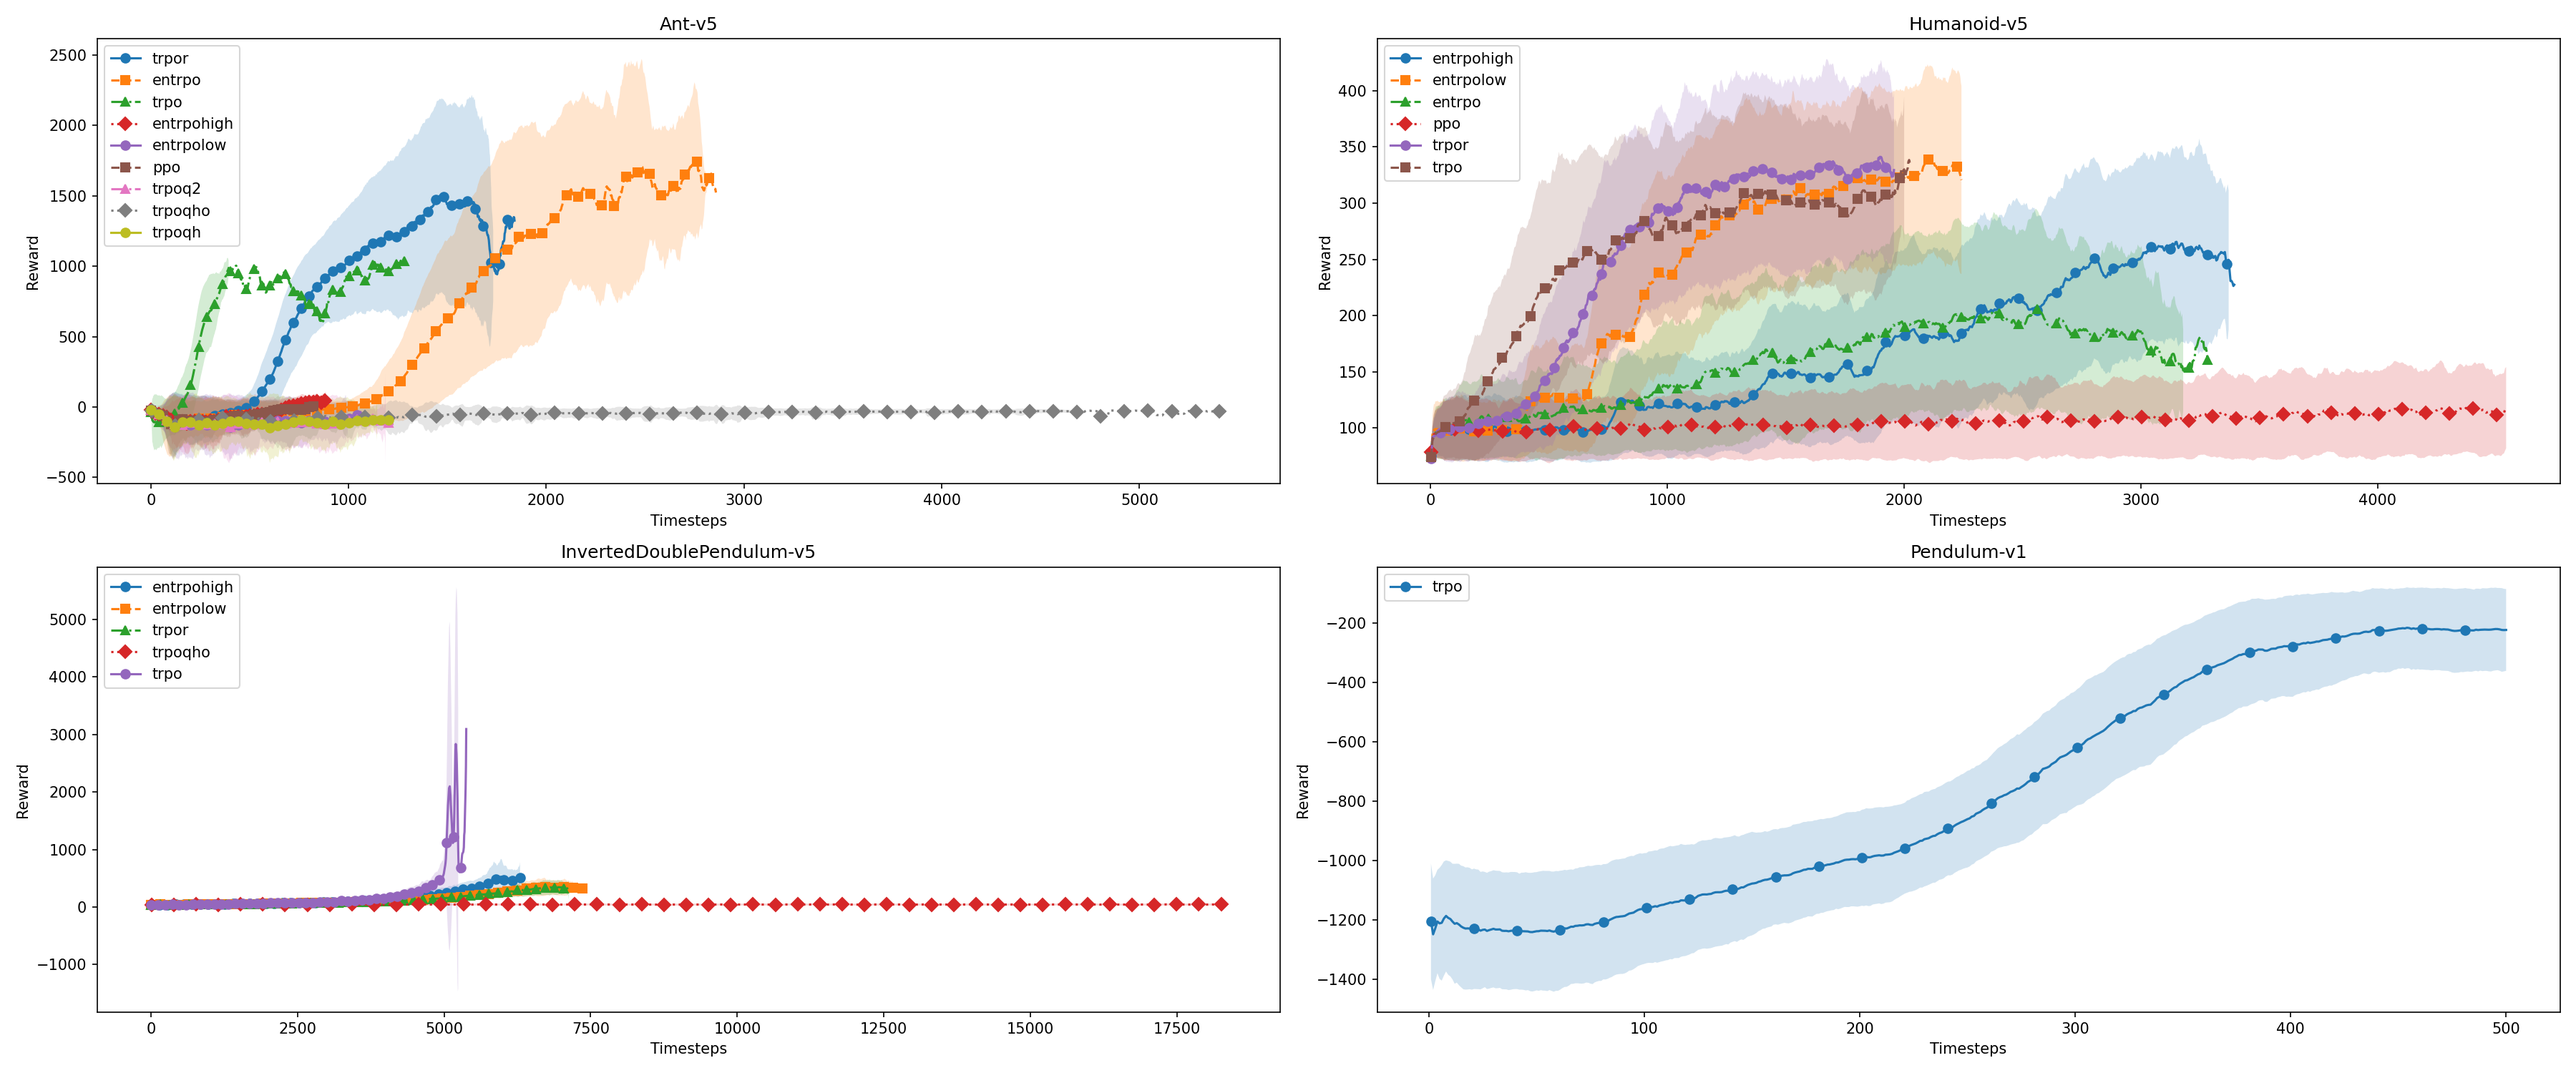
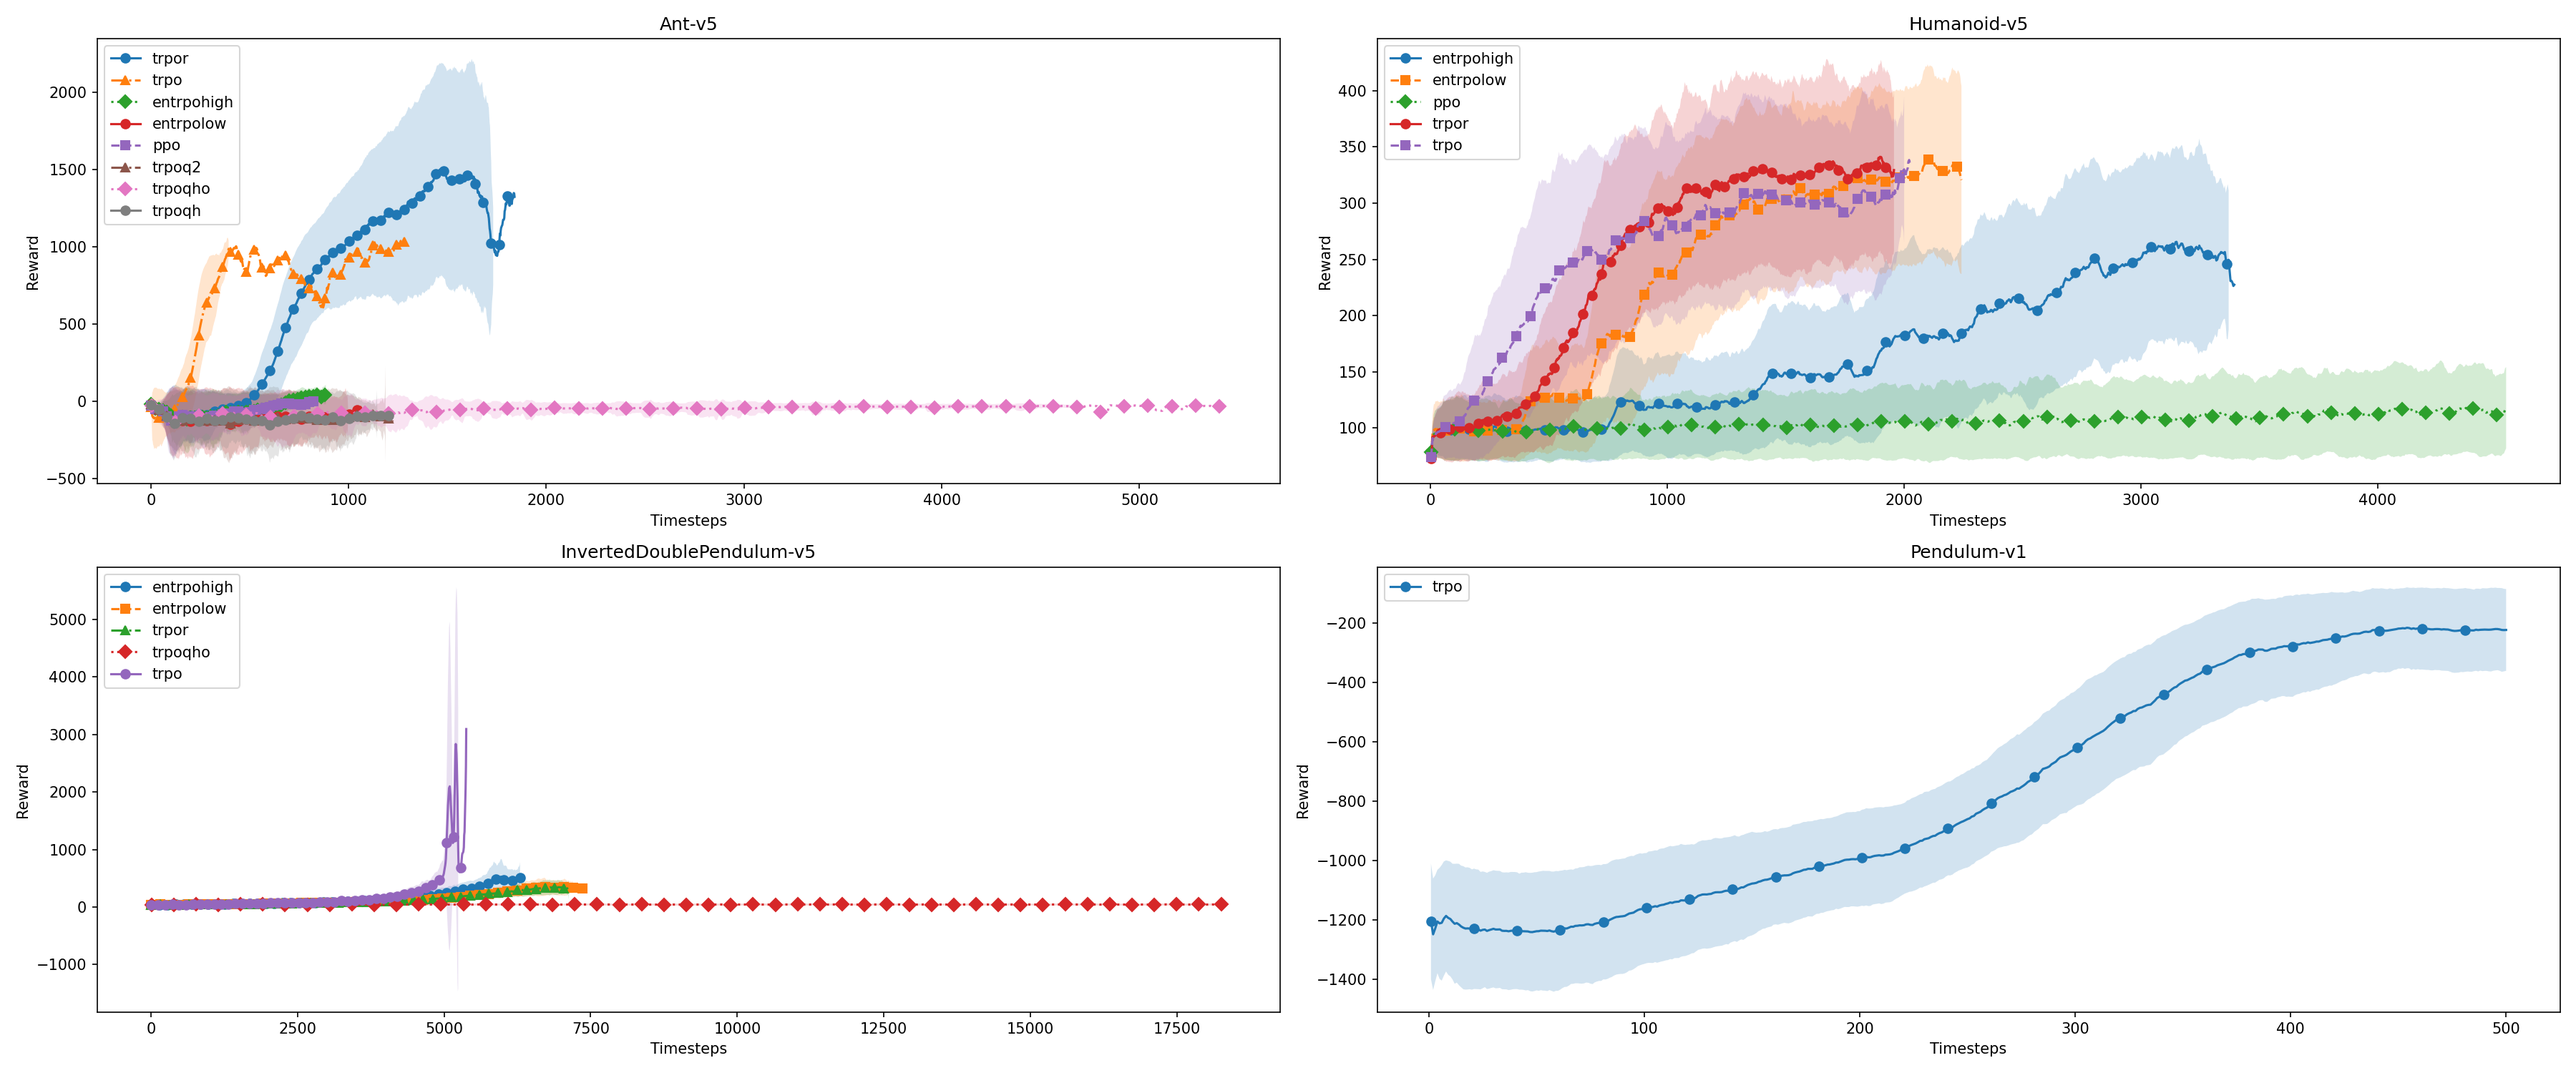
add Pendulum

diff --git a/zoo/train_eval_plot.py b/zoo/train_eval_plot.py
@@ -241,7 +241,7 @@ def plot_rewards_from_grouped_paths(grouped, results_dir, num_points=10000):
 
 
 if __name__ == "__main__":
-  filter_envs = ["Ant-v5", "Humanoid-v5", "InvertedDoublePendulum-v5"]
+  filter_envs = ["Ant-v5", "Humanoid-v5", "InvertedDoublePendulum-v5", "Pendulum-v1"]
   filter_models = ["trpor", "entrpo", "trpo"]
   results_dir = ".plots"
   plot_from_path(".eval", results_dir, filter_envs=filter_envs, filter_models=filter_models)
